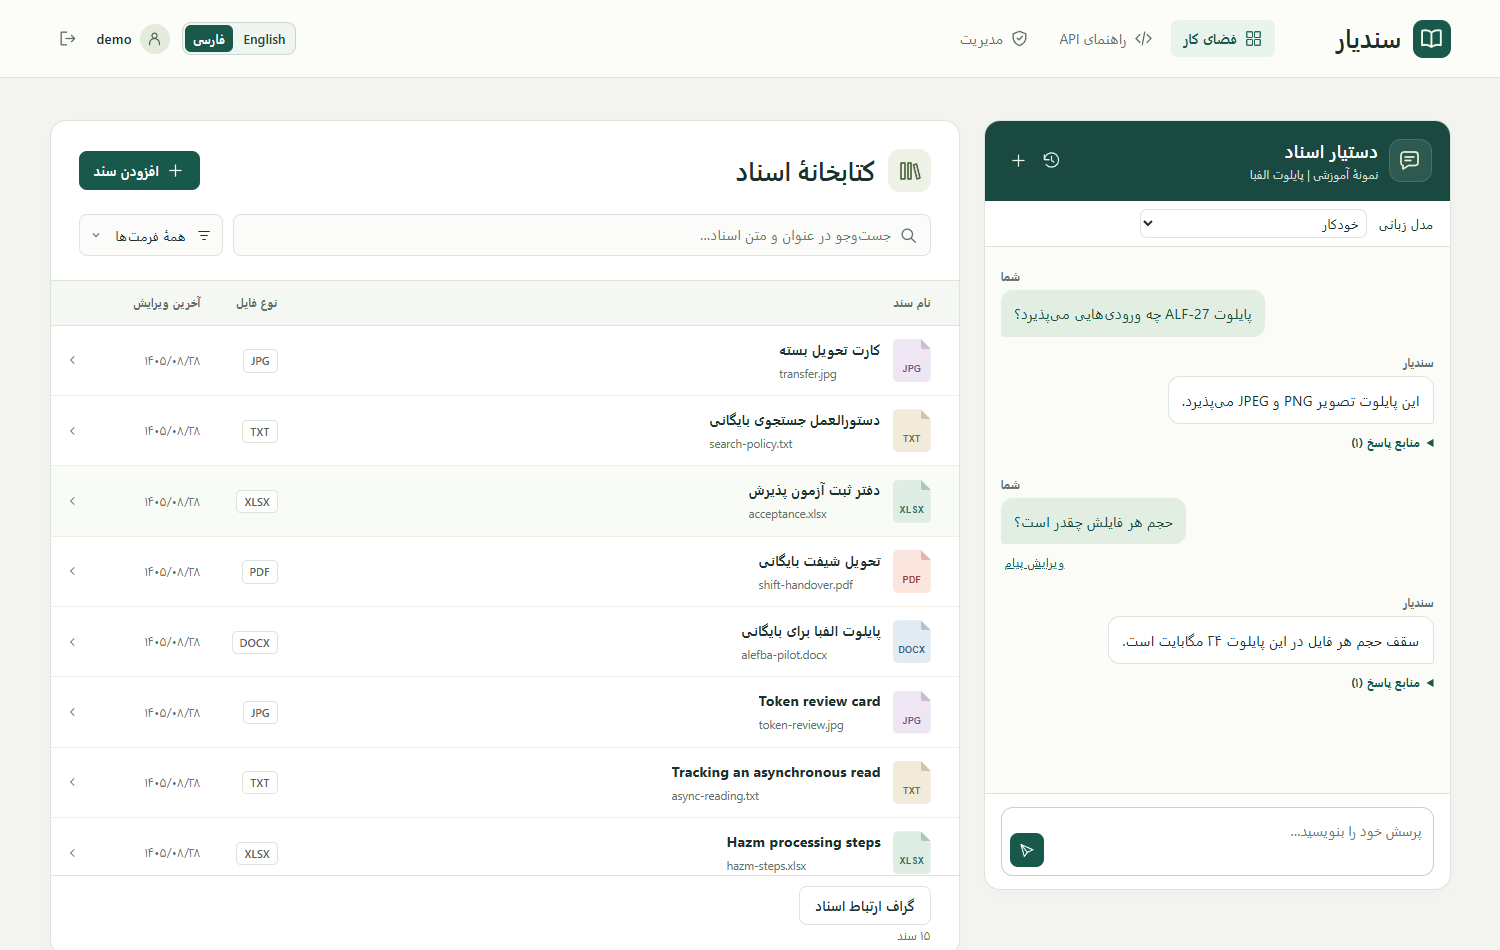
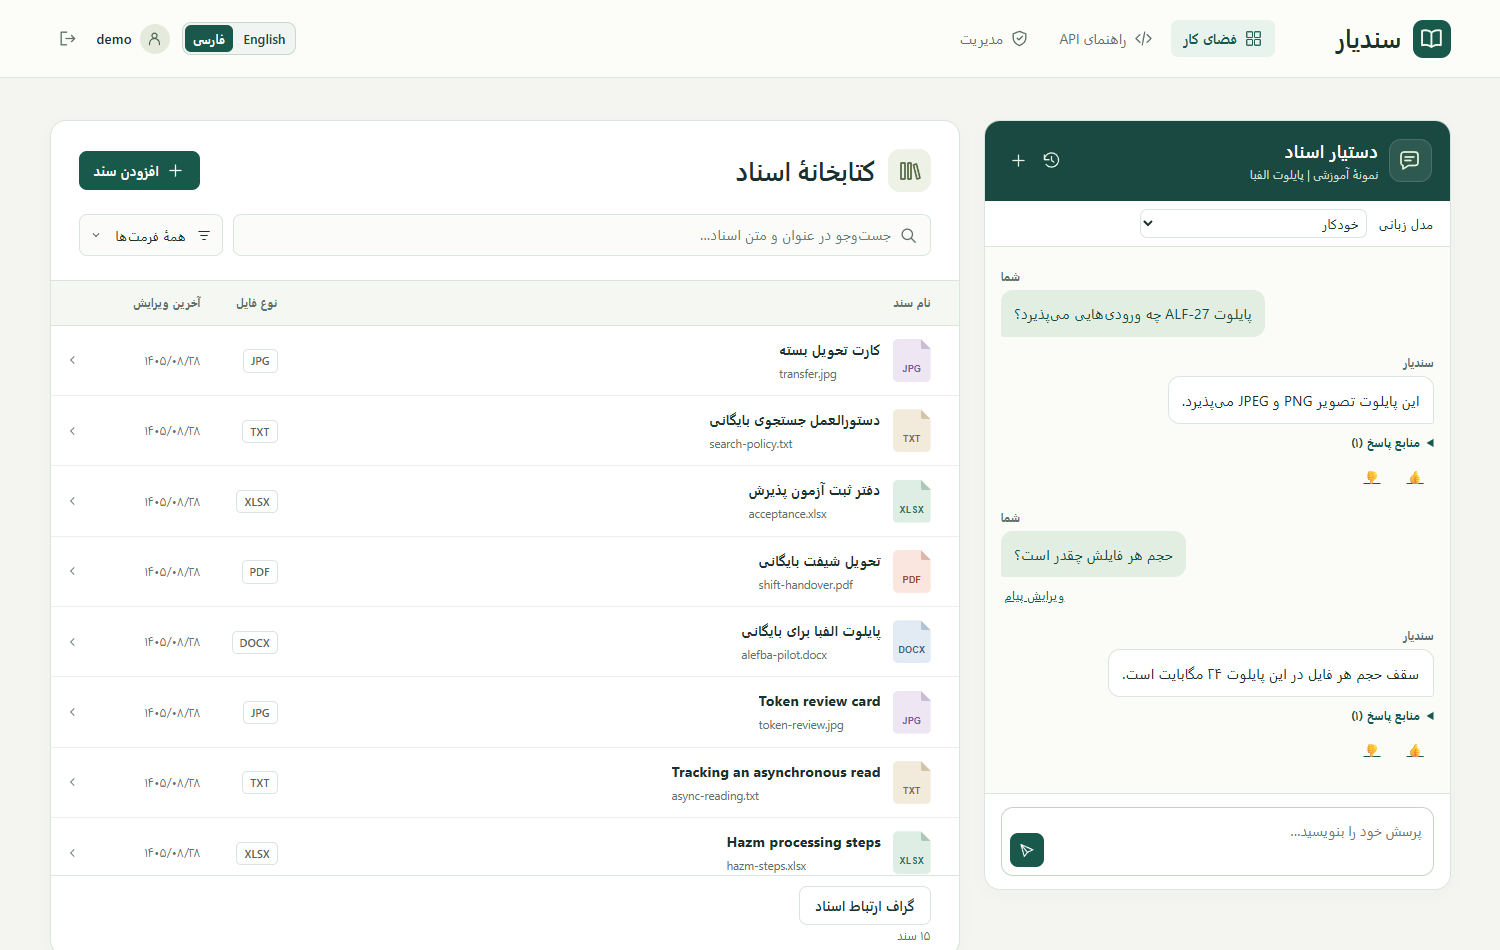
Learn passage preferences from private answer ratings and evaluate grounded answers

Changed region(s): [[0.644, 0.5189, 0.7973, 0.6411], [0.736, 0.6716, 0.9507, 0.7632]]

diff --git a/static/app/chat.js b/static/app/chat.js
@@ -77,6 +77,37 @@ function message(role, text, sources = []) {
   return row;
 }
 
+function ratingControls(turn) {
+  const group = element("div", "answer-rating");
+  const en = document.documentElement.lang.startsWith("en");
+  const choices = [[1, en ? "Helpful" : "پاسخ درست بود", "👍"], [-1, en ? "Incorrect" : "پاسخ نادرست بود", "👎"]];
+  const conversationId = current.id;
+  for (const [value, label, icon] of choices) {
+    const button = element("button", "turn-edit", icon);
+    button.type = "button";
+    button.title = label;
+    button.setAttribute("aria-label", label);
+    button.setAttribute("aria-pressed", String(turn.rating === value));
+    button.onclick = async () => {
+      for (const item of group.children) item.disabled = true;
+      try {
+        const result = await api(conversationsUrl + conversationId + "/turns/" + turn.id + "/rating/",
+                                 "PUT", {rating: turn.rating === value ? 0 : value});
+        turn.rating = result.rating;
+        for (const [index, item] of Array.from(group.children).entries()) {
+          item.setAttribute("aria-pressed", String(turn.rating === choices[index][0]));
+        }
+      } catch (err) {
+        if (current?.id === conversationId) showError("chat-error", err.message);
+      } finally {
+        for (const item of group.children) item.disabled = false;
+      }
+    };
+    group.append(button);
+  }
+  return group;
+}
+
 function renderTurns(turns) {
   const nodes = [];
   for (const turn of turns) {
@@ -93,7 +124,9 @@ function renderTurns(turns) {
       };
       userMessage.append(edit);
     }
-    nodes.push(userMessage, message("assistant", turn.answer, turn.sources));
+    const reply = message("assistant", turn.answer, turn.sources);
+    reply.append(ratingControls(turn));
+    nodes.push(userMessage, reply);
   }
   byId("messages").replaceChildren(...nodes);
   byId("chat-welcome").hidden = turns.length > 0;

diff --git a/static/app/workspace.css b/static/app/workspace.css
@@ -249,3 +249,7 @@ dialog::backdrop { background: #162c28a3; }
 .graph-branch details { margin: .4rem 0 .6rem; }
 .graph-branch summary { cursor: pointer; }
 .graph-branch blockquote { white-space: pre-wrap; overflow-wrap: anywhere; margin: .4rem 0 1rem; }
+
+.answer-rating { display: flex; gap: .4rem; }
+.answer-rating button { border: 1px solid transparent; border-radius: .55rem; padding: .2rem .55rem; }
+.answer-rating button[aria-pressed="true"] { background: #e3eee9; border-color: #417562; }

diff --git a/library/rag.py b/library/rag.py
@@ -21,7 +21,7 @@ from langchain_openai import ChatOpenAI
 from langchain_text_splitters import RecursiveCharacterTextSplitter
 from pydantic import BaseModel, Field
 
-from .models import Chunk, LanguageModel
+from .models import Chunk, LanguageModel, Turn
 from .inventory import asks_for_languages, language_inventory
 
 
@@ -108,7 +108,32 @@ def _bm25(query, counts, document_frequency, lengths, average):
     return scores
 
 
-def _retrieve(chunks, queries, *, original=None, neighbors=True):
+def _feedback_weights(user, query, chunks):
+    """Use ratings as a bounded tie-breaker among already relevant passages."""
+    words = set(_tokens(query))
+    contextual = re.search(r"حجمش|اسمش|این (?:فایل|سند)|همون|\b(?:it|its|this|that|these|those)\b", query, re.I)
+    if len(words) < 3 or contextual:
+        return {}
+    votes = Turn.objects.filter(conversation__owner=user).exclude(rating=0).order_by("-pk")
+    by_location = {}
+    for chunk in chunks:
+        by_location.setdefault((chunk.document_id, chunk.location), []).append(chunk)
+    weights = Counter()
+    codes = {w for w in words if re.fullmatch(r"[a-z]+[-_]\d+", w)}
+    for question, rating, sources in votes.values_list("question", "rating", "sources")[:100]:
+        previous = set(_tokens(question))
+        previous_codes = {w for w in previous if re.fullmatch(r"[a-z]+[-_]\d+", w)}
+        overlap = len(words & previous) / len(words | previous)
+        if overlap < 0.65 or previous_codes != codes:
+            continue
+        matched = {c.pk for s in sources for c in by_location.get((s.get("document_id"), s.get("location")), [])
+                   if s.get("quote") and s["quote"] in c.text}
+        for key in matched:
+            weights[key] += rating * overlap
+    return {key: max(-1, min(1, weight)) for key, weight in weights.items()}
+
+
+def _retrieve(chunks, queries, *, original=None, neighbors=True, weights=None):
     """Reciprocal rank fusion of cosine and BM25 results; add adjacent chunks."""
     queries = list(dict.fromkeys(queries))
     corpus = np.array([chunk.vector for chunk in chunks], dtype=np.float32)
@@ -129,7 +154,7 @@ def _retrieve(chunks, queries, *, original=None, neighbors=True):
     # Keep an exact project code above semantically similar projects, even if
     # the planner translated or omitted the code in its alternative query.
     codes = {t for t in _tokens(original or "") if re.fullmatch(r"[a-z]+[-_]\d+", t)}
-    ranked = sorted(fused, key=lambda i: (len(codes.intersection(counts[i])), fused[i]), reverse=True)
+    ranked = sorted(fused, key=lambda i: (len(codes.intersection(counts[i])), fused[i] * (1 + 0.15 * (weights or {}).get(chunks[i].pk, 0))), reverse=True)
     for index in ranked[:4]:
         hit = chunks[index]
         for offset in ((0, -1, 1) if neighbors else (0,)):
@@ -318,7 +343,7 @@ def _run_model(provider, instructions, payload, schema, validate, models=None):
     raise RAGUnavailable(reason)
 
 
-def _explicit_language(text):
+def _language_directives(text):
     """Recognize common directives even if the planner overlooks them."""
     languages = r"(english|persian|farsi|انگلیسی|فارسی)"
     patterns = [
@@ -327,7 +352,11 @@ def _explicit_language(text):
         rf"(?:به\s+(?:زبان\s+)?)?{languages}\s+(?:جواب|پاسخ|بگو|بنویس|توضیح\s+بده|حرف\s+بزن|صحبت\s+کن|بده)",
         rf"(?:پاسخ|جواب)(?:ت|تان|\s+را)?\s+(?:به\s+)?(?:زبان\s+)?{languages}(?:\s|$)",
     ]
-    matches = [m for pattern in patterns for m in re.finditer(pattern, text.casefold())]
+    return [m for pattern in patterns for m in re.finditer(pattern, text.casefold())]
+
+
+def _explicit_language(text):
+    matches = _language_directives(text)
     if matches:
         name = max(matches, key=lambda m: m.start()).group(1)
         return "en" if name in ("english", "انگلیسی") else "fa"
@@ -545,7 +574,10 @@ def answer_question(user, turns, question, selected=None):
     if _asks_model_identity(question):
         return _model_identity(question, selected), []
     greeting = " ".join(_tokens(question))
-    if asks_for_languages(greeting):
+    inventory_query = question.casefold()
+    for directive in _language_directives(question):
+        inventory_query = inventory_query.replace(directive.group(), " ")
+    if asks_for_languages(" ".join(_tokens(inventory_query))):
         return language_inventory(user, _default_language(question))
     if greeting in {"what are you doing", "what can you do", "how can you help", "help",
                     "چه کار می کنی", "چیکار می کنی", "چه کمکی می کنی", "راهنما"}:
@@ -626,7 +658,8 @@ def answer_question(user, turns, question, selected=None):
                     hits = brief_chunks + [c for c in hits if c.document_id != brief_chunks[0].document_id][:4]
             return plan, hits
         # Keep the original wording for exact codes lost in a rewrite.
-        context = _retrieve(chunks, [plan.standalone, plan.alternative, question], original=question)
+        weights = _feedback_weights(user, question, chunks)
+        context = _retrieve(chunks, [plan.standalone, plan.alternative, question], original=question, weights=weights)
         return plan, context
 
     def respond(search_result):

diff --git a/scripts/evaluate_answers.py b/scripts/evaluate_answers.py
@@ -1,0 +1,64 @@
+"""Check observable answers and citations against a disposable copy of the shipped demo."""
+import os
+from pathlib import Path
+import shutil
+import sys
+from tempfile import TemporaryDirectory
+
+ROOT = Path(__file__).resolve().parents[1]
+sys.path.insert(0, str(ROOT))
+
+
+def evaluate():
+    from django.contrib.auth import get_user_model
+    from library.models import Chunk, Turn
+    from library.rag import RAGUnavailable, answer_question
+
+    user = get_user_model().objects.get(username="demo")
+    acceptance = user.document_set.get(filename="acceptance.xlsx")
+    previous = Turn(question="خلاصهٔ سند پذیرش", sources=[{"title": acceptance.title, "document_id": acceptance.pk}])
+    # For each case, check the expected content plus the exact set of cited files
+    # where a single document (or pair of related documents) answers the question.
+    cases = [
+        ("model", "تو چه مدلی هستی", [], ["خودکار"], set()),
+        ("greeting", "سلام", [], ["سلام"], set()),
+        ("languages", "چند تا از اسناد فقط انگلیسی هست و کدام هم فارسی هم انگلیسی؟", [],
+         ["فارسی (5)", "انگلیسی (5)", "فارسی و انگلیسی (5)"], None),
+        ("relationships", "این سند با چه سندهایی مرتبط هست؟", [previous], ["transfer.jpg", "search-policy.txt"],
+         {"acceptance.xlsx", "transfer.jpg", "search-policy.txt"}),
+        ("missing evidence", "بودجه ZEBRA-909 چقدر است؟", [], ["پیدا نکردم"], set()),
+        ("table lookup", "برای OCR-614 چند صفحه ثبت شده؟ به انگلیسی جواب بده", [], ["48", "page"], {"acceptance.xlsx"}),
+        ("formats", "Which formats does ALF-27 accept? Answer in English.", [], ["png", "jpeg"], {"alefba-pilot.docx"}),
+    ]
+    passed = 0
+    for label, question, history, expected, files in cases:
+        try:
+            answer, sources = answer_question(user, history, question)
+        except RAGUnavailable:
+            print(f"UNAVAILABLE  {label}")
+            continue
+        cited = set(user.document_set.filter(pk__in=[s["document_id"] for s in sources]).values_list("filename", flat=True))
+        grounded = all(Chunk.objects.filter(document__owner=user, document_id=s["document_id"],
+                                            location=s["location"], text__contains=s["quote"]).exists() for s in sources)
+        correct = all(term.casefold() in answer.casefold() for term in expected)
+        ok = grounded and correct and (files == cited if files is not None else len(cited) == 15)
+        passed += ok
+        print(f"{'PASS' if ok else 'FAIL'}  {label}")
+    print(f"{passed}/{len(cases)}")
+    return passed == len(cases)
+
+
+if __name__ == "__main__":
+    with TemporaryDirectory() as data:
+        shutil.copyfile(ROOT / "demo/database.sqlite3", Path(data) / "db.sqlite3")
+        os.environ.update(DATA_DIR=data, DJANGO_SETTINGS_MODULE="config.settings")
+        import django
+        django.setup()
+        from django.core.management import call_command
+        from django.db import connections
+        try:
+            call_command("migrate", verbosity=0)
+            success = evaluate()
+        finally:
+            connections.close_all()
+    sys.exit(0 if success else 1)

diff --git a/library/test_rag.py b/library/test_rag.py
@@ -50,6 +50,39 @@ class RetrievalTests(TestCase):
         other.delete()
         self.assertEqual(self.client.get("/api/documents/graph/").json()["edges"], [])
 
+    def test_rating_is_scoped_reversible_and_reranks_only_current_evidence(self):
+        question = "What documents describe archive review?"
+        first = self.add_chunk(self.owned, "Archive review includes catalog checks.")
+        second = self.add_chunk(self.owned, "Archive review includes receipt checks.", position=1)
+        cited = dict(document_id=self.owned.pk, title=self.owned.title, location=second.location, quote=second.text)
+        turn = self.conversation.turns.create(question=question, answer="Receipt checks.", sources=[cited])
+        url = f"/api/conversations/{self.conversation.pk}/turns/{turn.pk}/rating/"
+        self.client.force_login(self.other.owner)
+        self.assertEqual(self.client.put(url, {"rating": 1}, content_type="application/json").status_code, 404)
+        self.client.force_login(self.user)
+        for rating, preferred in [(1, second), (-1, first), (0, first)]:
+            response = self.client.put(url, {"rating": rating}, content_type="application/json")
+            self.assertEqual(response.json(), {"rating": rating})
+            weights = rag._feedback_weights(self.user, question, [first, second])
+            with patch.object(rag, "_vectors", return_value=np.array([[1, 0]])):
+                hits = rag._retrieve([first, second], [question], weights=weights, neighbors=False)
+            self.assertEqual(hits[0], preferred)
+            self.assertEqual(rag._feedback_weights(self.other.owner, question, [first, second]), {})
+        self.assertEqual(self.client.put(url, {"rating": 2}, content_type="application/json").status_code, 400)
+        turn.rating = 1
+        turn.save()
+        second.text = "Entirely revised."
+        self.assertEqual(rag._feedback_weights(self.user, question, [second]), {})
+        self.assertEqual(rag._feedback_weights(self.user, "How many pages?", [first, second]), {})
+
+    def test_output_language_request_does_not_trigger_language_inventory(self):
+        self.add_chunk(self.owned, "Limit is 48 pages for OCR-614.")
+        plan = rag.SearchPlan(standalone="How many pages for OCR-614?", alternative="OCR-614 pages", language="en")
+        with patch.object(rag, "_invoke", side_effect=[plan, ("48 pages [1]", [{"quote": "48 pages"}])]), \
+             patch.object(rag, "_retrieve", return_value=list(self.owned.chunks.all())):
+            answer, _ = rag.answer_question(self.user, [], "برای OCR-614 چند صفحه ثبت شده؟ به انگلیسی جواب بده")
+        self.assertEqual(answer, "48 pages [1]")
+
     def test_greeting_with_an_empty_library(self):
         answer, sources = rag.answer_question(self.user, [], "سلام!")
         self.assertTrue(answer.startswith("سلام"))

diff --git a/library/views.py b/library/views.py
@@ -2,7 +2,7 @@ from django.utils.translation import gettext
 from django.contrib.auth.decorators import login_required
 from django.core import signing
 from django.db.models import Q
-from django.shortcuts import render
+from django.shortcuts import get_object_or_404, render
 from django.utils.crypto import salted_hmac
 from django.views.decorators.csrf import ensure_csrf_cookie
 from rest_framework import mixins, viewsets
@@ -11,7 +11,7 @@ from rest_framework.response import Response
 from drf_spectacular.utils import OpenApiParameter, extend_schema, extend_schema_view
 
 from .relations import graph
-from .serializers import DocumentGraph
+from .serializers import AnswerRating, DocumentGraph
 from . import services
 from .models import Conversation, Document, LanguageModel
 from .rag import RAGUnavailable, search_evidence
@@ -95,6 +95,16 @@ class LanguageModelViewSet(mixins.ListModelMixin, viewsets.GenericViewSet):
 @extend_schema(tags=["conversations"])
 class ConversationViewSet(mixins.DestroyModelMixin, ScopedViewSet):
     queryset = Conversation.objects.none()
+
+    @extend_schema(request=AnswerRating, responses=AnswerRating)
+    @action(detail=True, methods=["put"], url_path=r"turns/(?P<turn_id>[0-9]+)/rating")
+    def rate(self, request, pk=None, turn_id=None):
+        turn = get_object_or_404(self.get_object().turns, pk=turn_id)
+        form = AnswerRating(data=request.data)
+        form.is_valid(raise_exception=True)
+        turn.rating = form.validated_data["rating"]
+        turn.save(update_fields=["rating"])
+        return Response({"rating": turn.rating})
 
     @extend_schema(request=PreviewInput, responses=Ticket)
     @action(detail=True, methods=["post"])

diff --git a/library/serializers.py b/library/serializers.py
@@ -34,7 +34,7 @@ class EditInput(serializers.Serializer):
 class TurnOutput(serializers.ModelSerializer):
     class Meta:
         model = Turn
-        fields = ["id", "question", "answer", "sources", "created_at"]
+        fields = ["id", "question", "answer", "sources", "rating", "created_at"]
 
 
 class ModelOption(serializers.ModelSerializer):
@@ -96,3 +96,7 @@ class GraphEdge(serializers.Serializer):
 class DocumentGraph(serializers.Serializer):
     nodes = GraphNode(many=True)
     edges = GraphEdge(many=True)
+
+
+class AnswerRating(serializers.Serializer):
+    rating = serializers.ChoiceField(choices=[-1, 0, 1])

diff --git a/library/migrations/0004_turn_rating.py b/library/migrations/0004_turn_rating.py
@@ -1,0 +1,18 @@
+# Generated by Django 5.2.19 on 2026-11-21 13:00
+
+from django.db import migrations, models
+
+
+class Migration(migrations.Migration):
+
+    dependencies = [
+        ('library', '0003_demo_catalog_permissions'),
+    ]
+
+    operations = [
+        migrations.AddField(
+            model_name='turn',
+            name='rating',
+            field=models.SmallIntegerField(choices=[(-1, 'Dislike'), (0, 'Unrated'), (1, 'Like')], default=0),
+        ),
+    ]

diff --git a/library/models.py b/library/models.py
@@ -75,6 +75,7 @@ class Conversation(models.Model):
 
 
 class Turn(models.Model):
+    rating = models.SmallIntegerField(default=0, choices=[(-1, "Dislike"), (0, "Unrated"), (1, "Like")])
     conversation = models.ForeignKey(Conversation, on_delete=models.CASCADE, related_name="turns")
     question = models.TextField(gettext("پرسش"))
     answer = models.TextField(gettext("پاسخ"))

diff --git a/README.md b/README.md
@@ -147,3 +147,8 @@ docker compose exec web python manage.py seed_demo
 ### گراف ارتباط اسناد
 
 در کتابخانه روی «گراف ارتباط اسناد» بزنید و فایل مبدأ را انتخاب کنید. با باز کردن دلیل ارتباط، متن و محل شاهد در هر دو فایل دیده میشود. با انتخاب نام فایل مقصد میتوانید مسیر را ادامه دهید. در چت نیز بعد از خلاصهٔ یک فایل بپرسید «این سند با چه سندهایی مرتبط است؟». شناسهٔ یکسان، واژههای مشترک و شباهت معنایی احتمالی سه دلیل جدا هستند. گراف از بخشهای فعلی اسناد همان حساب ساخته میشود و فراخوانی مدل زبانی مصرف نمیکند.
+
+### بازخورد پاسخ
+
+دکمههای زیر هر پاسخ برای ثبت یا تغییر نظر همان کاربر هستند. کلیک دوباره روی رأی انتخابشده آن را پاک میکند. در جستوجوی محتوایی برای پرسشهایی با واژههای نزدیک، سامانه حداکثر ۱۰۰ رأی اخیر همان حساب را بررسی میکند. رأیها میتوانند امتیاز قطعههایی را که هنوز حاوی نقلقول اصلی هستند حداکثر ۱۵٪ بالا یا پایین ببرند. بررسی شاهد برای پاسخ جدید همچنان اجرا میشود. این شخصیسازی در مرحلهٔ بازیابی انجام میشود و وزن مدل زبانی را تغییر نمیدهد.
+برای سنجش قابلتکرار پاسخها روی یک کپی موقت از دادهٔ نمونه، `docker compose exec web python scripts/evaluate_answers.py` را اجرا کنید. دو پرسش محتوایی از مدل پیکربندیشده استفاده میکنند. خروجی برای هر پرسش نتیجهٔ بررسی محتوای مورد انتظار و شاهد را نشان میدهد.

diff --git a/docs/API.md b/docs/API.md
@@ -95,3 +95,5 @@ curl.exe -u demo "http://localhost:8000/api/conversations/$($chat.id)/"
 
 `GET /api/models/` فهرست مدلهای قابل انتخاب را برمیگرداند. هنگام ایجاد گفتوگو با `POST /api/conversations/` میتوانید شناسهٔ مدل را در `language_model` بفرستید. برای تغییر آن از `PATCH /api/conversations/{id}/` با بدنهٔ `{"language_model": 2}` استفاده کنید. مقدار `null` انتخاب خودکار را فعال میکند. مدیریت فهرست مدلها از پنل Django Admin انجام میشود.
 `GET /api/documents/graph/` returns owned document nodes and undirected edges with a reason and two cited passages.
+
+`PUT /api/conversations/{id}/turns/{turn_id}/rating/` accepts `{"rating": 1}` for a like, `-1` for a dislike and `0` to clear. The conversation owner can replace their vote. The current rating is included with each turn.
